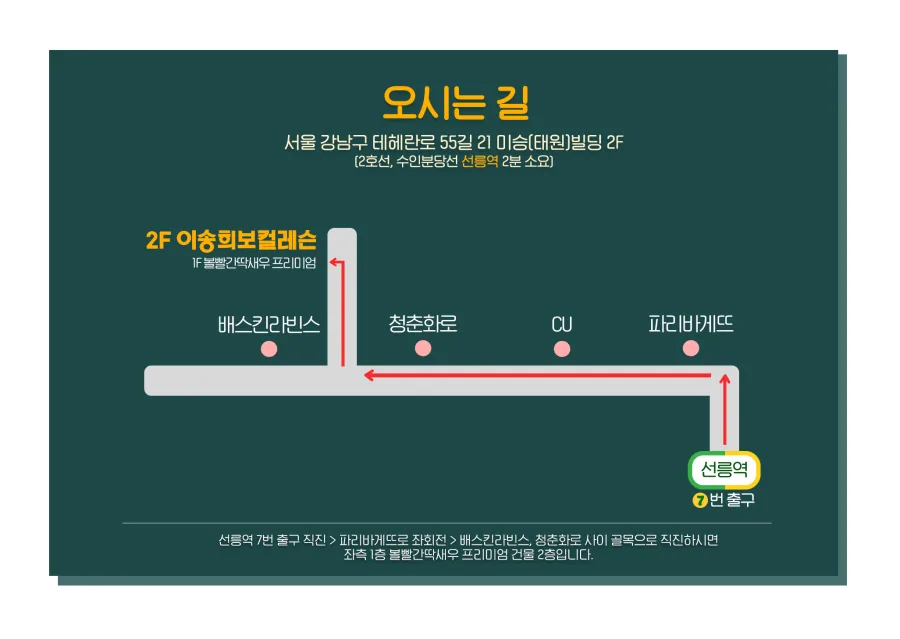
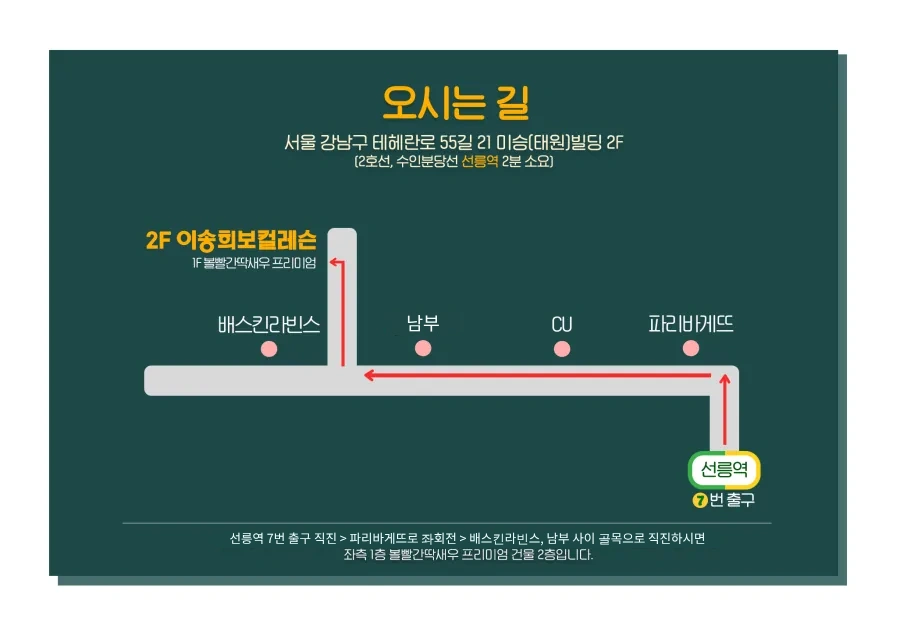
오시는 길: 청춘화로 → 남부 (약도 그림 + 안내 문구, 원장님 요청)
Claude-Session: https://claude.ai/code/session_01X9aqRJ7HYvVfmdZ1vEPmUB

Changed region(s): [[0.2489, 0.8326, 0.8089, 0.8623], [0.4356, 0.4757, 0.4978, 0.5352]]

diff --git a/contact.html b/contact.html
@@ -52,7 +52,7 @@
       <div>
         <p class="findus__addr">서울 강남구 테헤란로55길 21 미승(태원)빌딩 2층</p>
         <p>2호선 · 수인분당선 선릉역 7번 출구, 걸어서 2~3분</p>
-        <ol class="findus__steps"><li>선릉역 7번 출구에서 직진</li><li>파리바게뜨에서 왼쪽으로</li><li>배스킨라빈스와 청춘화로 사이 골목으로 직진</li><li>왼쪽, 1층 볼빨간딱새우 건물 2층</li></ol>
+        <ol class="findus__steps"><li>선릉역 7번 출구에서 직진</li><li>파리바게뜨에서 왼쪽으로</li><li>배스킨라빈스와 남부 사이 골목으로 직진</li><li>왼쪽, 1층 볼빨간딱새우 건물 2층</li></ol>
         <p>전화 · 문자 상담 <a href="tel:01044585448">010-4458-5448</a> · 카카오톡 채널 24시간 문의 · 무료 방문 상담</p>
       </div>
     </div>

diff --git a/tools/blog_content.py b/tools/blog_content.py
@@ -268,7 +268,7 @@ TIPS = [
 DIRECTIONS = {
     "address": "서울 강남구 테헤란로55길 21 미승(태원)빌딩 2층",
     "subway": "2호선 · 수인분당선 선릉역 7번 출구, 걸어서 2~3분",
-    "steps": ["선릉역 7번 출구에서 직진", "파리바게뜨에서 왼쪽으로", "배스킨라빈스와 청춘화로 사이 골목으로 직진",
+    "steps": ["선릉역 7번 출구에서 직진", "파리바게뜨에서 왼쪽으로", "배스킨라빈스와 남부 사이 골목으로 직진",
               "왼쪽, 1층 볼빨간딱새우 건물 2층"],
 }
 

diff --git a/CLAUDE.md b/CLAUDE.md
@@ -166,6 +166,8 @@
   데스크톱 앱의 Claude가 크롬에서 호스트 관리 값을 입력. 클라우드 세션은 원장님 컴퓨터에 접근할 수 없으므로 이 단계만 데스크톱 앱에서 진행.
   배포 날이 가까워지면 앱·확장 설치부터 먼저 안내. (대안: 네임서버를 Cloudflare로 옮기고 API 토큰으로 관리 — 준비가 많아 보류)
 
+- **오시는 길 (원장님 2026-10-29): 청춘화로가 없어지고 그 자리에 "남부"가 생김.** 약도 그림 `assets/img/blog/map.webp`의 "청춘화로"(지도 위 이름 + 아래 안내 문장)를 같은 초록 바탕으로 덮고 "남부"로 다시 씀 (원본은 git 기록에), 글 안내(`blog_content.DIRECTIONS`)도 "배스킨라빈스와 남부 사이 골목".
+
 ## 보관 자료
 - 네이버 블로그(blog.naver.com/o_oa8)는 예전 학원 정보의 원본이었고, 2026-10-28 글 전부를 홈페이지로 옮김 (위 "블로그 → 홈페이지 이사"). 앞으로 블로그는 안 쓸 수도 있음. 정리본 `docs/blog.md`, 홈페이지 데이터 `tools/blog_content.py`, 사진 `assets/img/blog/`.
   블로그 접속은 환경 허용 도메인 `*.naver.com`, `*.pstatic.net`이 필요해요 (원장님이 추가함). 블로그 글은 대부분 이미지 안내판이라 직접 읽어서 옮겨야 해요.

diff --git a/docs/blog.md b/docs/blog.md
@@ -39,7 +39,7 @@
 - 서울 강남구 테헤란로55길 21 미승(태원)빌딩 2층 (2호선 · 수인분당선 선릉역 7번 출구, 걸어서 2~3분)
 - 선릉역 7번 출구에서 직진
 - 파리바게뜨에서 왼쪽으로
-- 배스킨라빈스와 청춘화로 사이 골목으로 직진
+- 배스킨라빈스와 남부 사이 골목으로 직진
 - 왼쪽, 1층 볼빨간딱새우 건물 2층
 
 ## 대표원장 이송희 (보컬 트레이너 프로필, 2023-07-13 · 온라인 레슨 글 2024-07)
